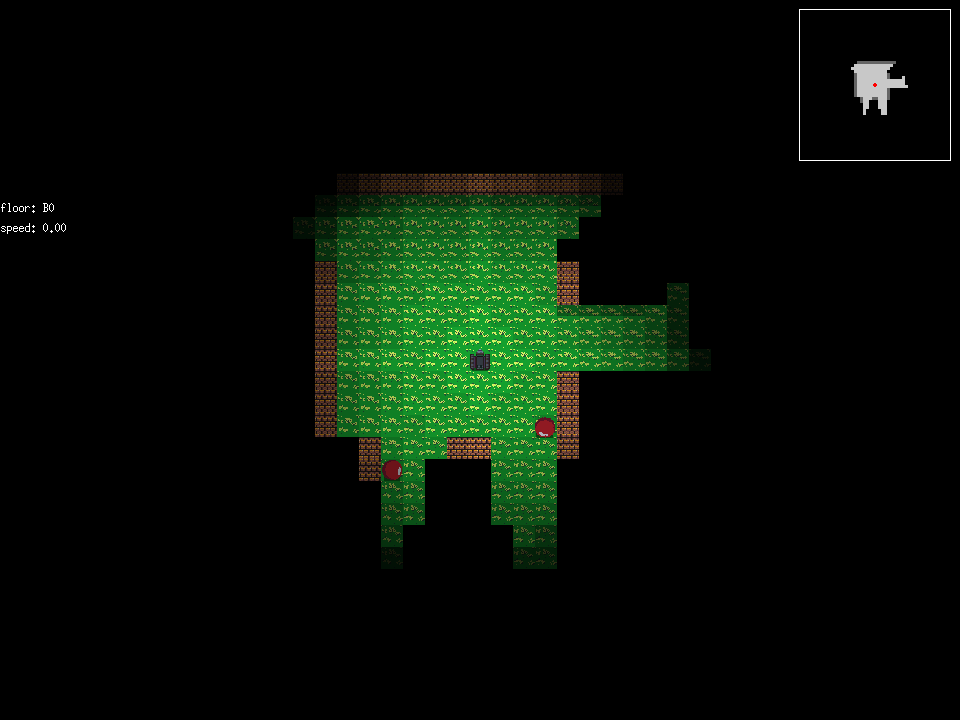
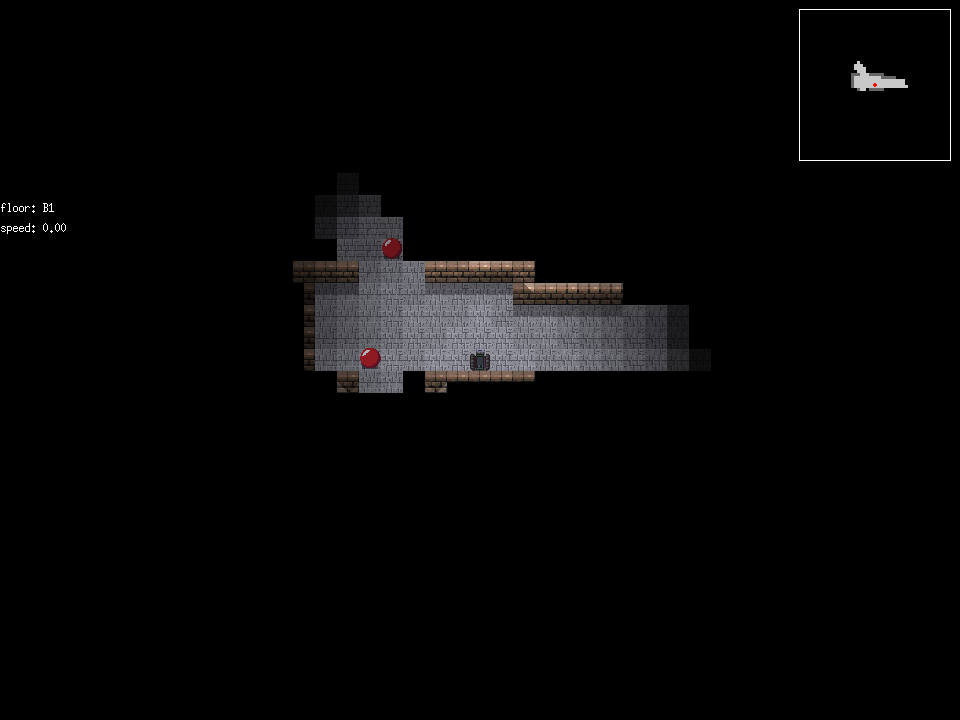
feat: ステージ生成をseed値で再現可能にする

Changed region(s): [[0.2812, 0.2444, 0.7188, 0.7944], [0.875, 0.0611, 0.9375, 0.1528]]

diff --git a/lib/mapbuilder/seed_test.go b/lib/mapbuilder/seed_test.go
@@ -1,0 +1,135 @@
+package mapbuilder
+
+import (
+	"testing"
+
+	gc "github.com/kijimaD/ruins/lib/components"
+)
+
+func TestSeedReproducibility(t *testing.T) {
+	t.Parallel()
+	// 同じシードで複数回マップを生成して同じ結果になることを確認
+	const testSeed uint64 = 12345
+	width, height := gc.Row(20), gc.Col(20)
+
+	// 1回目の生成
+	chain1 := SimpleRoomBuilder(width, height, testSeed)
+	chain1.Build()
+	tiles1 := make([]Tile, len(chain1.BuildData.Tiles))
+	copy(tiles1, chain1.BuildData.Tiles)
+	rooms1 := make([]Rect, len(chain1.BuildData.Rooms))
+	copy(rooms1, chain1.BuildData.Rooms)
+
+	// 2回目の生成（同じシード）
+	chain2 := SimpleRoomBuilder(width, height, testSeed)
+	chain2.Build()
+	tiles2 := make([]Tile, len(chain2.BuildData.Tiles))
+	copy(tiles2, chain2.BuildData.Tiles)
+	rooms2 := make([]Rect, len(chain2.BuildData.Rooms))
+	copy(rooms2, chain2.BuildData.Rooms)
+
+	// タイルが完全に一致することを確認
+	if len(tiles1) != len(tiles2) {
+		t.Errorf("タイル数が異なります。1回目: %d, 2回目: %d", len(tiles1), len(tiles2))
+	}
+	for i := range tiles1 {
+		if tiles1[i] != tiles2[i] {
+			t.Errorf("タイル[%d]が異なります。1回目: %v, 2回目: %v", i, tiles1[i], tiles2[i])
+		}
+	}
+
+	// 部屋が完全に一致することを確認
+	if len(rooms1) != len(rooms2) {
+		t.Errorf("部屋数が異なります。1回目: %d, 2回目: %d", len(rooms1), len(rooms2))
+	}
+	for i := range rooms1 {
+		if rooms1[i] != rooms2[i] {
+			t.Errorf("部屋[%d]が異なります。1回目: %v, 2回目: %v", i, rooms1[i], rooms2[i])
+		}
+	}
+}
+
+func TestDifferentSeeds(t *testing.T) {
+	t.Parallel()
+	// 異なるシードで異なる結果になることを確認
+	width, height := gc.Row(20), gc.Col(20)
+
+	// シード1で生成
+	chain1 := SimpleRoomBuilder(width, height, 11111)
+	chain1.Build()
+
+	// シード2で生成
+	chain2 := SimpleRoomBuilder(width, height, 22222)
+	chain2.Build()
+
+	// 部屋数が異なる可能性が高い（必ずしも異なるとは限らないが）
+	// 少なくともいくつかのタイルは異なるはず
+	differentTiles := 0
+	for i := range chain1.BuildData.Tiles {
+		if chain1.BuildData.Tiles[i] != chain2.BuildData.Tiles[i] {
+			differentTiles++
+		}
+	}
+
+	if differentTiles == 0 {
+		t.Error("異なるシードなのにマップが完全に一致しています")
+	}
+}
+
+func TestRandomSourceDeterministic(t *testing.T) {
+	t.Parallel()
+	// RandomSourceが決定論的であることを確認
+	const seed uint64 = 99999
+
+	// 同じシードから作成した2つのRandomSource
+	rs1 := NewRandomSource(seed)
+	rs2 := NewRandomSource(seed)
+
+	// 同じ順序で同じ値を生成することを確認
+	for i := 0; i < 100; i++ {
+		val1 := rs1.Intn(1000)
+		val2 := rs2.Intn(1000)
+		if val1 != val2 {
+			t.Errorf("反復%dで異なる値が生成されました。val1: %d, val2: %d", i, val1, val2)
+		}
+	}
+
+	// Float64も確認
+	for i := 0; i < 100; i++ {
+		val1 := rs1.Float64()
+		val2 := rs2.Float64()
+		if val1 != val2 {
+			t.Errorf("反復%dで異なるFloat64値が生成されました。val1: %f, val2: %f", i, val1, val2)
+		}
+	}
+}
+
+func TestZeroSeedHandling(t *testing.T) {
+	t.Parallel()
+	// シード0の場合はランダムなシードが使用されることを確認
+	width, height := gc.Row(10), gc.Col(10)
+
+	// シード0で2回生成
+	chain1 := SimpleRoomBuilder(width, height, 0)
+	chain1.Build()
+
+	// 少し時間をずらして再度生成
+	chain2 := SimpleRoomBuilder(width, height, 0)
+	chain2.Build()
+
+	// 高確率で異なるマップになるはず（厳密には同じになる可能性もあるが極めて低い）
+	// ここでは部屋数だけチェック
+	if len(chain1.BuildData.Rooms) == len(chain2.BuildData.Rooms) {
+		// 部屋数が同じでも、タイルが異なる可能性をチェック
+		differentTiles := 0
+		for i := range chain1.BuildData.Tiles {
+			if chain1.BuildData.Tiles[i] != chain2.BuildData.Tiles[i] {
+				differentTiles++
+			}
+		}
+		// 完全に一致する確率は非常に低い
+		if differentTiles == 0 {
+			t.Log("警告: シード0で生成した2つのマップが偶然一致しました（極めて稀）")
+		}
+	}
+}

diff --git a/lib/mapbuilder/level.go b/lib/mapbuilder/level.go
@@ -2,7 +2,6 @@ package mapbuilder
 
 import (
 	"log"
-	"math/rand/v2"
 
 	"github.com/kijimaD/ruins/lib/consts"
 	"github.com/kijimaD/ruins/lib/resources"
@@ -14,10 +13,10 @@ import (
 
 // NewLevel は新規に階層を生成する。
 // 階層を初期化するので、具体的なコードであり、その分参照を多く含んでいる。循環参照を防ぐためにこの関数はLevel構造体とは同じpackageに属していない。
-func NewLevel(world w.World, width gc.Row, height gc.Col) resources.Level {
+func NewLevel(world w.World, width gc.Row, height gc.Col, seed uint64) resources.Level {
 	gameResources := world.Resources.Dungeon.(*resources.Dungeon)
 
-	chain := SimpleRoomBuilder(width, height)
+	chain := SimpleRoomBuilder(width, height, seed)
 	chain.Build()
 
 	// 進行ワープホールを生成する
@@ -28,8 +27,8 @@ func NewLevel(world w.World, width gc.Row, height gc.Col) resources.Level {
 			if failCount > 200 {
 				log.Fatal("進行ワープホールの生成に失敗した")
 			}
-			x := gc.Row(rand.IntN(int(chain.BuildData.Level.TileWidth)))
-			y := gc.Col(rand.IntN(int(chain.BuildData.Level.TileHeight)))
+			x := gc.Row(chain.BuildData.RandomSource.Intn(int(chain.BuildData.Level.TileWidth)))
+			y := gc.Col(chain.BuildData.RandomSource.Intn(int(chain.BuildData.Level.TileHeight)))
 			tileIdx := chain.BuildData.Level.XYTileIndex(x, y)
 			if chain.BuildData.IsSpawnableTile(world, x, y) {
 				chain.BuildData.Tiles[tileIdx] = TileWarpNext
@@ -46,8 +45,8 @@ func NewLevel(world w.World, width gc.Row, height gc.Col) resources.Level {
 			if failCount > 200 {
 				log.Fatal("帰還ワープホールの生成に失敗した")
 			}
-			x := gc.Row(rand.IntN(int(chain.BuildData.Level.TileWidth)))
-			y := gc.Col(rand.IntN(int(chain.BuildData.Level.TileHeight)))
+			x := gc.Row(chain.BuildData.RandomSource.Intn(int(chain.BuildData.Level.TileWidth)))
+			y := gc.Col(chain.BuildData.RandomSource.Intn(int(chain.BuildData.Level.TileHeight)))
 			if chain.BuildData.IsSpawnableTile(world, x, y) {
 				tileIdx := chain.BuildData.Level.XYTileIndex(x, y)
 				chain.BuildData.Tiles[tileIdx] = TileWarpEscape
@@ -64,8 +63,8 @@ func NewLevel(world w.World, width gc.Row, height gc.Col) resources.Level {
 			if failCount > 200 {
 				log.Fatal("操作対象キャラの生成に失敗した")
 			}
-			tx := gc.Row(rand.IntN(int(chain.BuildData.Level.TileWidth)))
-			ty := gc.Col(rand.IntN(int(chain.BuildData.Level.TileHeight)))
+			tx := gc.Row(chain.BuildData.RandomSource.Intn(int(chain.BuildData.Level.TileWidth)))
+			ty := gc.Col(chain.BuildData.RandomSource.Intn(int(chain.BuildData.Level.TileHeight)))
 			if !chain.BuildData.IsSpawnableTile(world, tx, ty) {
 				failCount++
 				continue
@@ -81,14 +80,14 @@ func NewLevel(world w.World, width gc.Row, height gc.Col) resources.Level {
 	// フィールドにNPCを生成する
 	{
 		failCount := 0
-		total := 5 + rand.IntN(5)
+		total := 5 + chain.BuildData.RandomSource.Intn(5)
 		successCount := 0
 		for {
 			if failCount > 200 {
 				log.Fatal("NPCの生成に失敗した")
 			}
-			tx := gc.Row(rand.IntN(int(chain.BuildData.Level.TileWidth)))
-			ty := gc.Col(rand.IntN(int(chain.BuildData.Level.TileHeight)))
+			tx := gc.Row(chain.BuildData.RandomSource.Intn(int(chain.BuildData.Level.TileWidth)))
+			ty := gc.Col(chain.BuildData.RandomSource.Intn(int(chain.BuildData.Level.TileHeight)))
 			if !chain.BuildData.IsSpawnableTile(world, tx, ty) {
 				failCount++
 				continue

diff --git a/lib/mapbuilder/lib.go b/lib/mapbuilder/lib.go
@@ -4,6 +4,7 @@ package mapbuilder
 
 import (
 	"log"
+	"time"
 
 	gc "github.com/kijimaD/ruins/lib/components"
 	"github.com/kijimaD/ruins/lib/consts"
@@ -24,6 +25,8 @@ type BuilderMap struct {
 	// 廊下群。廊下は部屋と部屋をつなぐ移動可能な空間のことをいう。
 	// 廊下はタイルの集合体である
 	Corridors [][]resources.TileIdx
+	// RandomSource はシード値による再現可能なランダム生成を提供する
+	RandomSource *RandomSource
 }
 
 // IsSpawnableTile は指定タイル座標がスポーン可能かを返す
@@ -215,10 +218,16 @@ type BuilderChain struct {
 	BuildData BuilderMap
 }
 
-// NewBuilderChain は新しいビルダーチェーンを作成する
-func NewBuilderChain(width gc.Row, height gc.Col) *BuilderChain {
+// NewBuilderChain はシード値を指定してビルダーチェーンを作成する
+// シードが0の場合はランダムなシードを生成する
+func NewBuilderChain(width gc.Row, height gc.Col, seed uint64) *BuilderChain {
 	tileCount := int(width) * int(height)
 	tiles := make([]Tile, tileCount)
+
+	// シードが0の場合はランダムなシードを生成
+	if seed == 0 {
+		seed = uint64(time.Now().UnixNano())
+	}
 
 	return &BuilderChain{
 		Starter:  nil,
@@ -230,9 +239,10 @@ func NewBuilderChain(width gc.Row, height gc.Col) *BuilderChain {
 				TileSize:   consts.TileSize,
 				Entities:   make([]ecs.Entity, tileCount),
 			},
-			Tiles:     tiles,
-			Rooms:     []Rect{},
-			Corridors: [][]resources.TileIdx{},
+			Tiles:        tiles,
+			Rooms:        []Rect{},
+			Corridors:    [][]resources.TileIdx{},
+			RandomSource: NewRandomSource(seed),
 		},
 	}
 }
@@ -270,9 +280,9 @@ type MetaMapBuilder interface {
 	BuildMeta(*BuilderMap)
 }
 
-// SimpleRoomBuilder はシンプルな部屋ビルダーを作成する
-func SimpleRoomBuilder(width gc.Row, height gc.Col) *BuilderChain {
-	chain := NewBuilderChain(width, height)
+// SimpleRoomBuilder はシード値を指定してシンプルな部屋ビルダーを作成する
+func SimpleRoomBuilder(width gc.Row, height gc.Col, seed uint64) *BuilderChain {
+	chain := NewBuilderChain(width, height, seed)
 	chain.StartWith(RectRoomBuilder{})
 	chain.With(NewFillAll(TileWall))      // 全体を壁で埋める
 	chain.With(RoomDraw{})                // 部屋を描画

diff --git a/lib/mapbuilder/random.go b/lib/mapbuilder/random.go
@@ -1,0 +1,40 @@
+package mapbuilder
+
+import (
+	"math/rand/v2"
+)
+
+// RandomSource はシード値を管理して再現性のあるランダム生成を提供する
+type RandomSource struct {
+	// Seed はランダム生成のシード値
+	Seed uint64
+	// rng はシード値から作成したランダムソース
+	rng *rand.Rand
+}
+
+// NewRandomSource は新しいRandomSourceを作成する
+func NewRandomSource(seed uint64) *RandomSource {
+	source := rand.NewPCG(seed, seed+1)
+	return &RandomSource{
+		Seed: seed,
+		rng:  rand.New(source),
+	}
+}
+
+// Intn は0からn-1までのランダムな整数を返す
+func (r *RandomSource) Intn(n int) int {
+	if n <= 0 {
+		return 0
+	}
+	return r.rng.IntN(n)
+}
+
+// Float64 は0.0から1.0までのランダムな浮動小数点数を返す
+func (r *RandomSource) Float64() float64 {
+	return r.rng.Float64()
+}
+
+// Shuffle はスライスの要素をシャッフルする
+func (r *RandomSource) Shuffle(n int, swap func(i, j int)) {
+	r.rng.Shuffle(n, swap)
+}

diff --git a/lib/mapbuilder/rect_room.go b/lib/mapbuilder/rect_room.go
@@ -1,8 +1,6 @@
 package mapbuilder
 
 import (
-	"math/rand"
-
 	gc "github.com/kijimaD/ruins/lib/components"
 	"github.com/kijimaD/ruins/lib/mathutil"
 )
@@ -17,13 +15,13 @@ func (b RectRoomBuilder) BuildInitial(buildData *BuilderMap) {
 
 // BuildRooms は部屋をビルドする
 func (b RectRoomBuilder) BuildRooms(buildData *BuilderMap) {
-	maxRooms := 4 + rand.Intn(10)
+	maxRooms := 4 + buildData.RandomSource.Intn(10)
 	rooms := []Rect{}
 	for i := 0; i < maxRooms; i++ {
-		x := rand.Intn(int(buildData.Level.TileWidth))
-		y := rand.Intn(int(buildData.Level.TileHeight))
-		w := 2 + rand.Intn(8)
-		h := 2 + rand.Intn(8)
+		x := buildData.RandomSource.Intn(int(buildData.Level.TileWidth))
+		y := buildData.RandomSource.Intn(int(buildData.Level.TileHeight))
+		w := 2 + buildData.RandomSource.Intn(8)
+		h := 2 + buildData.RandomSource.Intn(8)
 		newRoom := Rect{
 			X1: gc.Row(x),
 			X2: gc.Row(mathutil.Min(x+w, int(buildData.Level.TileWidth))),

diff --git a/lib/states/dungeon.go b/lib/states/dungeon.go
@@ -22,6 +22,8 @@ var (
 type DungeonState struct {
 	es.BaseState
 	Depth int
+	// Seed はマップ生成用のシード値（0の場合はDungeonリソースのシード値を使用）
+	Seed uint64
 }
 
 func (st DungeonState) String() string {
@@ -47,7 +49,9 @@ func (st *DungeonState) OnStart(world w.World) {
 
 	gameResources := world.Resources.Dungeon.(*resources.Dungeon)
 	gameResources.Depth = st.Depth
-	gameResources.Level = mapbuilder.NewLevel(world, 50, 50)
+
+	// seed が 0 の場合は NewLevel 内部でランダムシードが生成される
+	gameResources.Level = mapbuilder.NewLevel(world, 50, 50, st.Seed)
 
 	// フロア移動時に探索済みマップをリセット
 	gameResources.ExploredTiles = make(map[string]bool)

diff --git a/lib/states/factories.go b/lib/states/factories.go
@@ -68,6 +68,13 @@ func NewDungeonStateWithDepth(depth int) es.StateFactory {
 	}
 }
 
+// NewDungeonStateWithSeed は指定されたDepthとSeedでDungeonStateインスタンスを作成するファクトリー関数
+func NewDungeonStateWithSeed(depth int, seed uint64) es.StateFactory {
+	return func() es.State {
+		return &DungeonState{Depth: depth, Seed: seed}
+	}
+}
+
 // NewMessageStateWithText は指定されたテキストでMessageStateインスタンスを作成するファクトリー関数
 func NewMessageStateWithText(text string) es.StateFactory {
 	return func() es.State {

diff --git a/lib/cmd/screenshot.go b/lib/cmd/screenshot.go
@@ -55,7 +55,8 @@ func runScreenshot(ctx *cli.Context) error {
 	case gs.PartySetupState{}.String():
 		vrt.RunTestGame(&gs.PartySetupState{}, mode)
 	case gs.DungeonState{}.String():
-		vrt.RunTestGame(&gs.DungeonState{}, mode)
+		// いい感じのseed値
+		vrt.RunTestGame(&gs.DungeonState{Depth: 1, Seed: 4009}, mode)
 	case gs.GameOverState{}.String():
 		vrt.RunTestGame(&gs.GameOverState{}, mode)
 	default:
